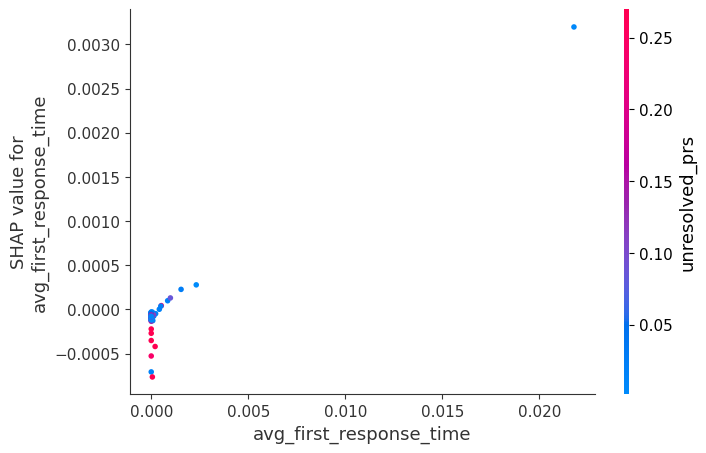
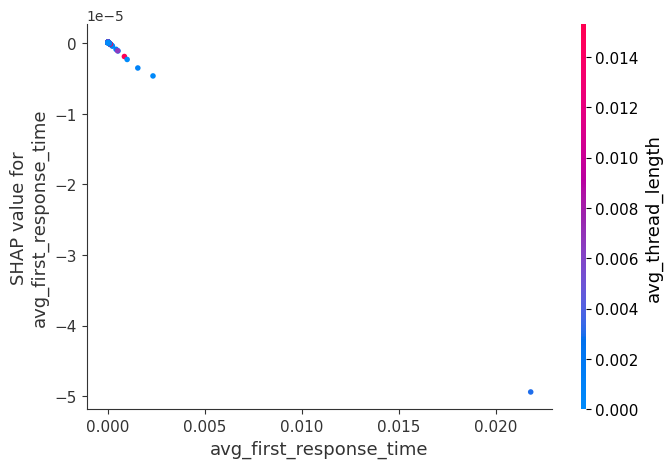
shap plots added for lstm

diff --git a/model/preprocess_train_LSTM.py b/model/preprocess_train_LSTM.py
@@ -13,6 +13,7 @@ from sklearn.preprocessing import MinMaxScaler, LabelEncoder
 from sklearn.model_selection import train_test_split
 from sklearn.metrics import accuracy_score, classification_report, confusion_matrix
 from sklearn.utils.class_weight import compute_class_weight
+import os
 
 # Remove outliers using IQR before normalization
 def remove_outliers(df, features):
@@ -242,22 +243,72 @@ print(f"Graduated Projects Accuracy: {graduated_accuracy:.4f}")
 # Using SHAP to interpret the prediction of the model
 # Ensure SHAP can access the TensorFlow model
 # Use DeepExplainer instead of GradientExplainer
-# explainer = shap.GradientExplainer(model, X_train)  
+#explainer = shap.GradientExplainer(model, X_train)  
 
 # # Reshape X_test for SHAP (convert 3D -> 2D)
-# X_test_reshaped = X_test[:, 0, :]  # Remove the time step dimension
+#X_test_reshaped = X_test[:, 0, :]  # Remove the time step dimension
 
 # # Compute SHAP values
-# shap_values = explainer.shap_values(X_test) 
+#shap_values = explainer.shap_values(X_test) 
 
 # # Ensure correct shape before plotting
-# shap_values = np.array(shap_values)[0]  # Extract the first (and only) class in binary classification
+#shap_values = np.array(shap_values)[0]  # Extract the first (and only) class in binary classification
 
 # # Summary plot of feature importance
-# shap.summary_plot(shap_values, X_test_reshaped, feature_names=numeric_features)
+#shap.summary_plot(shap_values, X_test_reshaped, feature_names=numeric_features)
 
 # # Dependence plots for individual features
-# for feature in range(len(numeric_features)):
-#     shap.dependence_plot(feature, shap_values, X_test_reshaped, feature_names=numeric_features)
+#for feature in range(len(numeric_features)):
+#    shap.dependence_plot(feature, shap_values, X_test_reshaped, feature_names=numeric_features)
+
+
+# *********************************************
+# Using SHAP to interpret the prediction of the model
+# Ensure SHAP can access the TensorFlow model
+rng = np.random.default_rng()
+
+# Create 'plots' directory if it doesn't exist
+plots_dir = "plots/LSTM_SHAP"
+os.makedirs(plots_dir, exist_ok=True)
+
+# Sample background data
+background = X_train[rng.choice(X_train.shape[0], 50, replace=False)]
+
+# Ensure X_test has the correct shape
+if len(X_test.shape) == 3:
+    X_test_reshaped = X_test[:100].reshape(100, X_test.shape[2])  # Remove timestep dim
+else:
+    X_test_reshaped = X_test[:100]
+
+# Initialize SHAP explainer
+explainer = shap.GradientExplainer(model, background)
+
+# Compute SHAP values
+shap_values = explainer.shap_values(X_test[:100])
+
+# Convert to numpy array if necessary
+if isinstance(shap_values, list):
+    shap_values = shap_values[0]  # Extract first class for binary classification
+
+shap_values = np.squeeze(shap_values)  # Removes dimensions of size 1
+
+# Ensure correct shape
+print("SHAP values shape after squeeze:", shap_values.shape)
+print("X_test shape:", X_test[:100].shape)
+
+# Save summary plot
+plt.figure()
+shap.summary_plot(shap_values, X_test_reshaped, feature_names=numeric_features, show=False)
+plt.savefig(os.path.join(plots_dir, "shap_summary_plot.png"), bbox_inches='tight')
+plt.close()
+
+# Save dependence plots
+for feature in range(len(numeric_features)):
+    plt.figure()
+    shap.dependence_plot(feature, shap_values, X_test_reshaped, feature_names=numeric_features, show=False)
+    plt.savefig(os.path.join(plots_dir, f"shap_dependence_plot_{numeric_features[feature]}.png"), bbox_inches='tight')
+    plt.close()
+
+print(f"SHAP plots saved in '{plots_dir}' folder successfully!")
 
 
